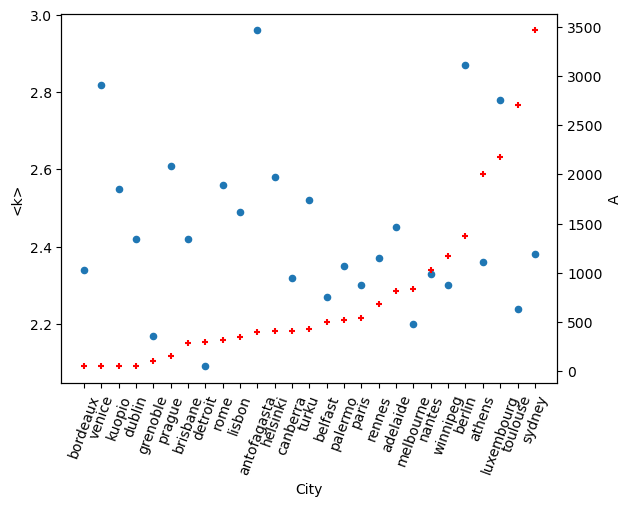
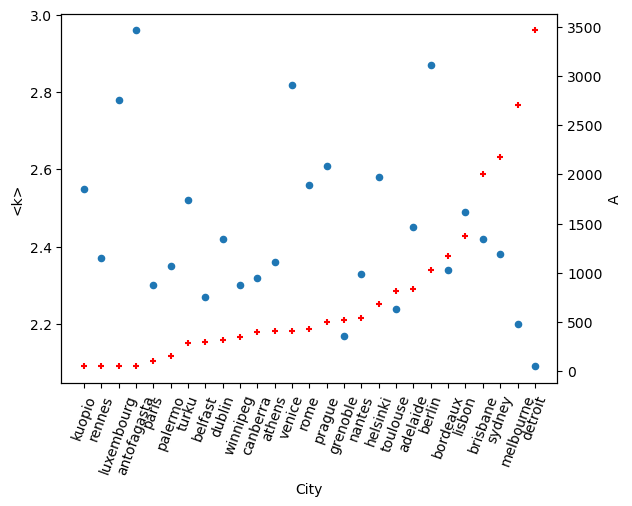
update table measures with plots and flags

diff --git a/table_measures.py b/table_measures.py
@@ -7,26 +7,6 @@ import seaborn as sns
 import networkx as nx
 
 
-def plot_two_columns_dataframe(df, col_x, col_y1, col_y2):
-    fig, ax = plt.subplots()
-    ax2 = ax.twinx()
-    x, y1, y2 = df[col_x], df[col_y1], df[col_y2]
-
-    # ax.plot(x, y1, 'bo')
-    # ax2.plot(x, y2, 'r+')
-
-    df.plot(x=col_x, y=col_y1, ax=ax, kind='scatter')
-    df.plot(x=col_x, y=col_y2, ax=ax2, c='r', kind='scatter', marker='+')
-
-    # ax = df1.plot.scatter(x='City', y='<k>', c='A', colormap='plasma')
-    # ax = df1.plot.scatter(x='City', y='<k>')
-
-    ax.set_xticks(x)
-    ax.set_xticklabels(x, rotation=70)
-
-    return fig
-
-
 if __name__ == '__main__':
 
     cities = nf.get_list_cities_names()
@@ -41,7 +21,7 @@ if __name__ == '__main__':
 
     csv_path = 'results/all/tables/measures.csv'
 
-    save = True
+    save, save_html = False, False
     compare_clustering_coeff = False
 
     ''' 
@@ -51,12 +31,16 @@ if __name__ == '__main__':
         - E = #edges
         - A = area in km^2
         - P = population 
-        - <k> = avg degree
-        - D = density
         - d = diameter
         - <c> = avg clustering coefficient
-        - <r> = avg assortativity
+        - rho = N/A, density of nodes per area
+        - <k> = avg degree
+        - r = assortativity
         - <l> = avg path length 
+        - <knn> = avg nearest neighbor
+        - ln(N) = natural log of nodes
+        - gamma = fitting parameter of degree distribution
+        
     '''
 
     pd.options.display.max_columns = None
@@ -71,7 +55,6 @@ if __name__ == '__main__':
             n = int(df_measures['#nodes'][city])
 
             net_er = nx.fast_gnp_random_graph(n, p)
-            # nx.draw(net_er, pos=nx.spring_layout(net_er))
             c = nx.average_clustering(net_er)
             c_er.append(c)
         df_measures['c_er'] = [x if x > 0 else 0.000001 for x in c_er]
@@ -83,9 +66,8 @@ if __name__ == '__main__':
         df = pd.read_csv(csv_path)
 
         ''' Plot the <k> for each city '''
-        df1 = df.copy().sort_values(by=['A'])
-
-        fig = plot_two_columns_dataframe(df1, 'City', '<k>', 'A')
+        df1 = df.sort_values(by=['A'])
+        fig = nf.plot_two_columns_dataframe(df1, 'City', '<k>', 'A')
         fig_name = 'results/all/plots/stats/avg_degree_vs_area.png'
         fig.savefig(fig_name, bbox_inches='tight')
 
@@ -122,7 +104,8 @@ if __name__ == '__main__':
         df = df.drop('density', axis=1)
         df = df.rename(columns={'#nodes': 'N', '#edges': 'E', 'diameter': 'd', 'avg_cc': '<c>',
                                 'population': 'P', 'area': 'A'})
-        df = df[['N', 'E', 'A', 'P', 'd', '<c>']]
+        df['City'] = cities
+        df = df[['City', 'N', 'E', 'A', 'P', 'd', '<c>']]
         df['ds'] = df['N'] / df['A']
         df['<k>'] = round(2 * df['E'] / df['N'], 2)
         df['r'] = [round(x, 2) for x in dict_additional['<r>']]
@@ -131,11 +114,12 @@ if __name__ == '__main__':
         df['ln(N)'] = [np.log(x) for x in df['N']]
         df['y'] = gammas
 
-        df['A'] = pd.Series(["{0:,.1f}".format(val) for val in df['A']], index=df.index)
-        df['<l>'] = pd.Series(["{0:,.1f}".format(val) for val in df['<l>']], index=df.index)
+        if save_html is True:
+            df['A'] = pd.Series(["{0:,.1f}".format(val) for val in df['A']], index=df.index)
+            df['<l>'] = pd.Series(["{0:,.1f}".format(val) for val in df['<l>']], index=df.index)
 
-        # with open('./results/all/tables/measures_html.html', 'w') as f:
-        #     f.write(html_string.format(table=df.to_html(classes='mystyle')))
+            with open('./results/all/tables/measures_html.html', 'w') as f:
+                f.write(html_string.format(table=df.to_html(classes='mystyle')))
 
         print(df)
         df.to_csv(csv_path, index=False)

diff --git a/network_functions.py b/network_functions.py
@@ -858,3 +858,17 @@ def plot_multiple_distributions_with_colorbar(datavecs, labels, xlabel, ylabel, 
     fig.colorbar(m)
 
     return fig
+
+
+def plot_two_columns_dataframe(df, col_x, col_y1, col_y2):
+    fig, ax = plt.subplots()
+    ax2 = ax.twinx()
+    x, y1, y2 = df[col_x], df[col_y1], df[col_y2]
+
+    df.plot(x=col_x, y=col_y1, ax=ax, kind='scatter')
+    df.plot(x=col_x, y=col_y2, ax=ax2, color='r', kind='scatter', marker='+')
+
+    ax.set_xticks(x)
+    ax.set_xticklabels(x, rotation=70)
+
+    return fig
